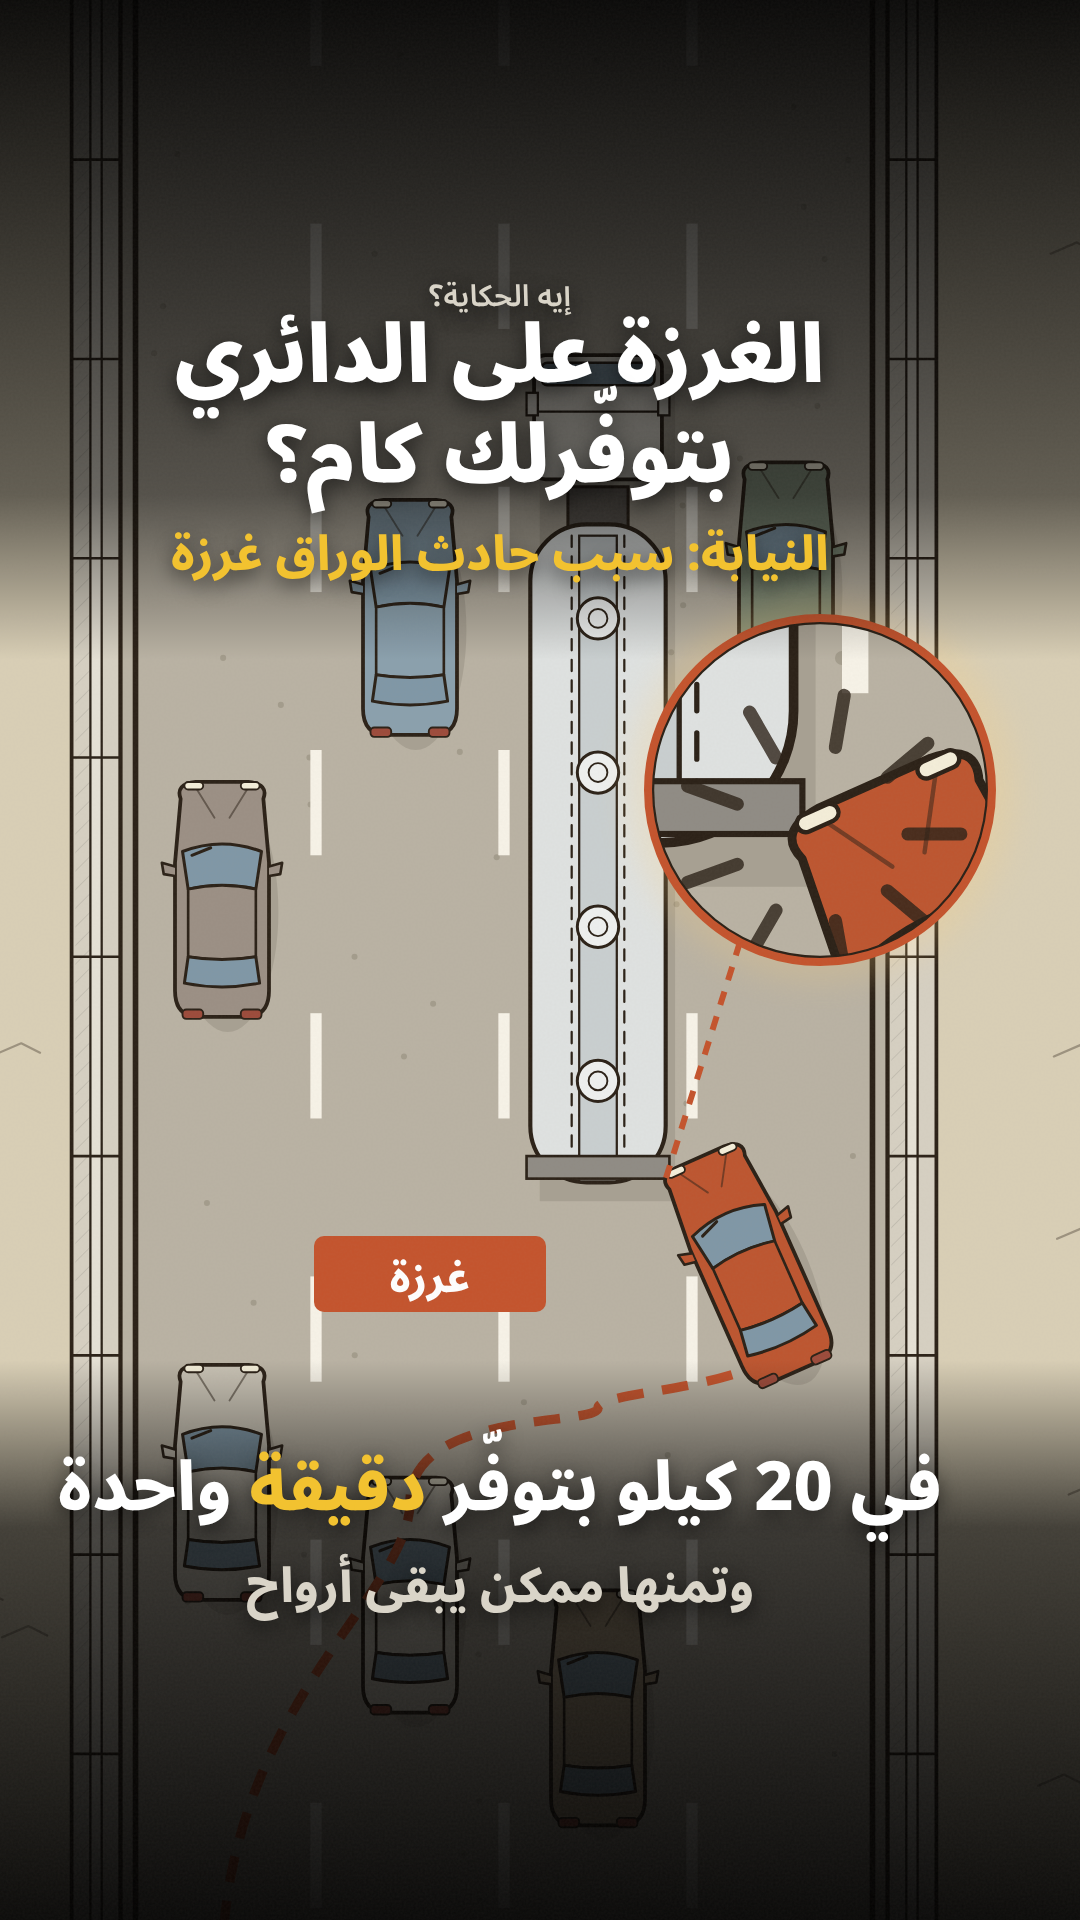
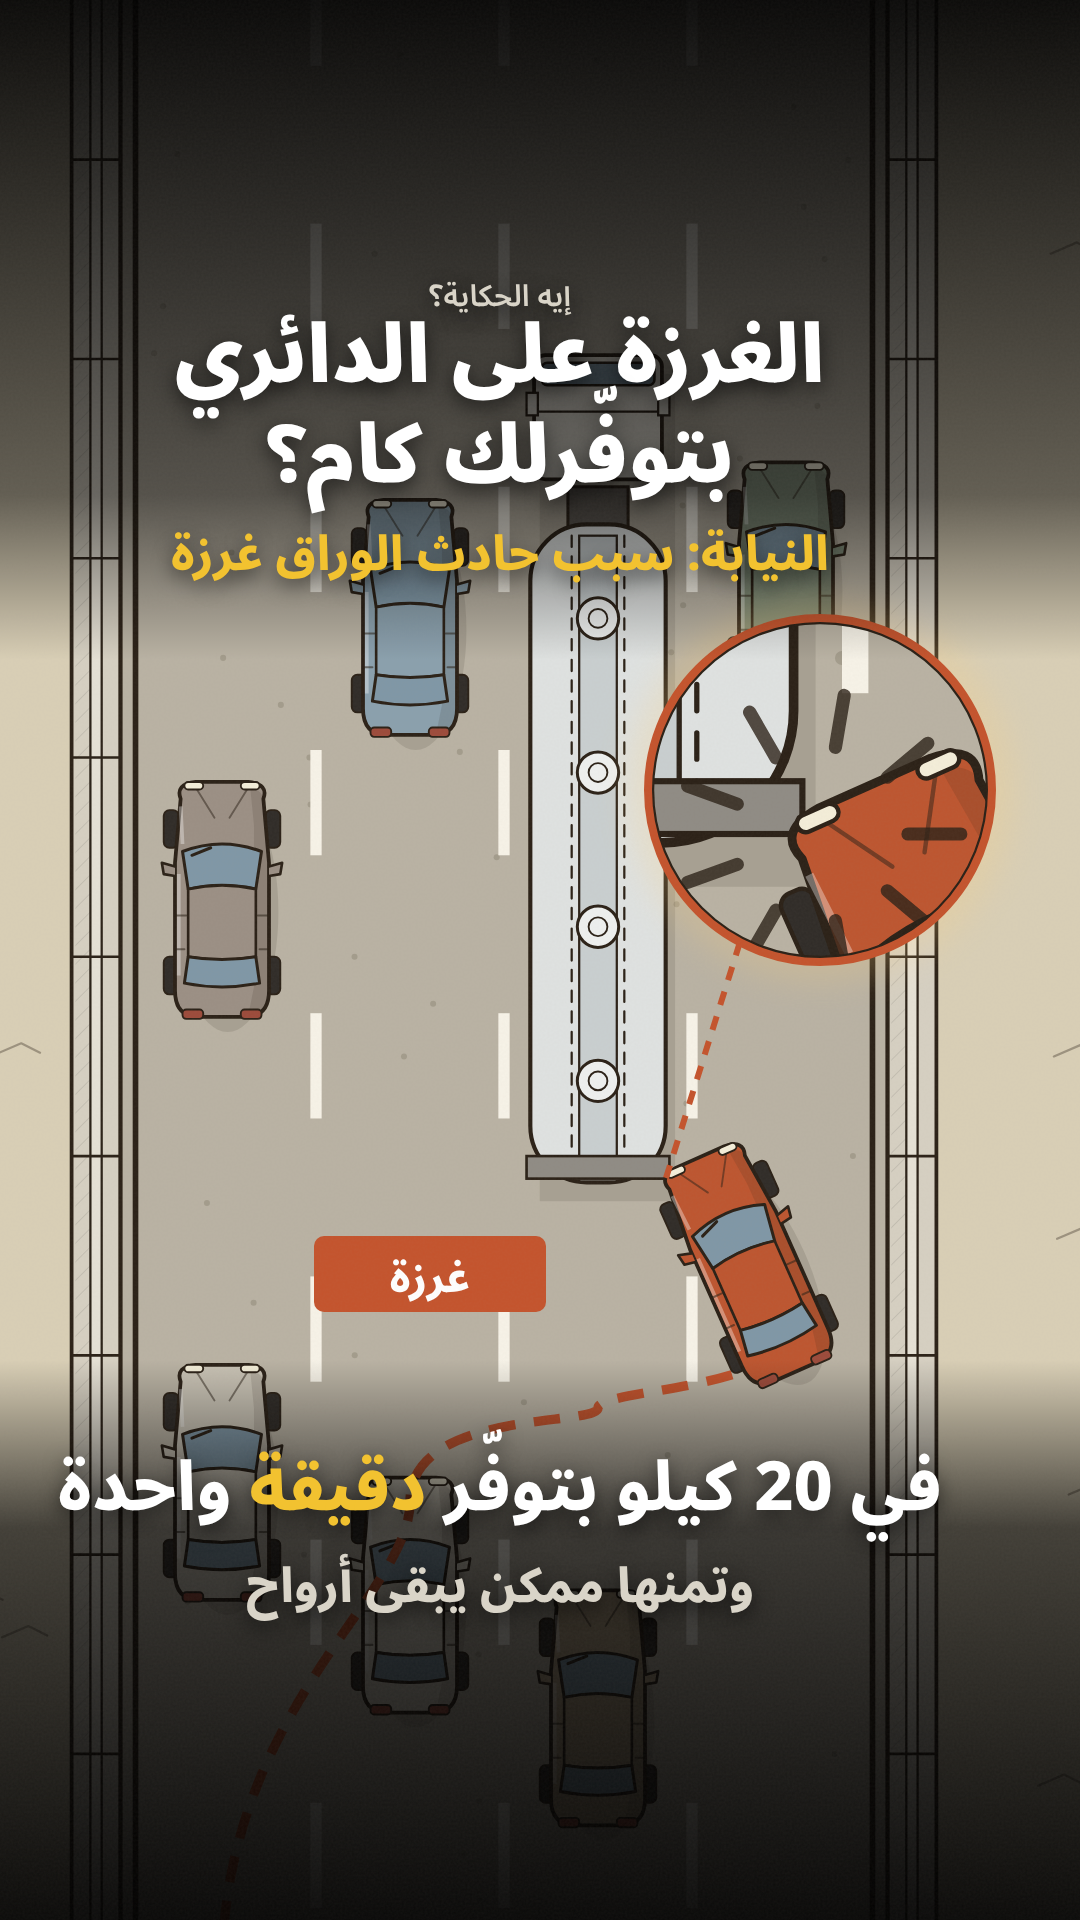
ghorza: hook rebuilt as a real weave through the gaps, each car reacts (brakes, swerves, startle); fuller car bodies
Claude-Session: https://claude.ai/code/session_016TN7FKGoWbsRS3eBNZ1crf

diff --git a/videos/ghorza/sketch/scenes.js b/videos/ghorza/sketch/scenes.js
@@ -390,15 +390,28 @@ shot([26, 3], still(OV[0], OV[1], OV[2]), function (u, d, t) {
 
 // ── opening card, bumper and summary art ──
 window.SCENE = window.SCENE || {};
+// The hook: one choreographed weave, every move into a real gap. Each car he cuts in front of reacts: it brakes (lights),
+// drops back and twitches away (left or right), with a startle mark — never an overlap.
+var HK = { A: [1, 380], B: [2, 175], C: [1, -125], D: [3, 60], E: [0, 280], F: [3, 330], G: [0, -60], H: [0, 470] };
+var HW = [[0, 350, 640], [1.4, 350, 362], [2.6, 250, 262], [3.4, 250, 62], [4.3, 350, -40], [5.2, 450, -160], [7.4, 450, -420]];
+var HR = { A: [1.5, -1, 72], B: [3.75, 1, 56], D: [4.55, 1, 60] };   // reaction start, swerve side, how far it drops back
+function hookWeaver(t) { var p = kf(HW, t), q = kf(HW, t + .05); return [p[0], p[1], Math.atan2(q[0] - p[0], -(q[1] - p[1]) + 9) * 57.3]; }
+function react(t, r) {   // → {dx, dy, ang, brake, jolt}
+  if (!r || t < r[0]) return { dx: 0, dy: 0, ang: 0, brake: false, jolt: 0 };
+  var u = t - r[0], out = ease(u / .35) * (1 - ease((u - 1.1) / 1.3)), back = ease(u / 1.2);
+  return { dx: r[1] * 20 * out, dy: r[2] * back, ang: r[1] * 9 * out * (u < .5 ? 1 : 1 - ease((u - .5) / .8)), brake: u < 2.4, jolt: u < .9 ? 1 - u / .9 : 0 };
+}
+function startle(x, y, k) { if (k <= 0) return ""; var s = ""; [-40, -14, 14, 40].forEach(function (a) { var r = a * Math.PI / 180; s += '<path d="M' + f(x + Math.sin(r) * 36) + ' ' + f(y - Math.cos(r) * 36) + ' L' + f(x + Math.sin(r) * (52 + 10 * (1 - k))) + ' ' + f(y - Math.cos(r) * (52 + 10 * (1 - k))) + '" stroke="' + ORANGE + '" stroke-width="4" stroke-linecap="round" opacity="' + f(k) + '"/>'; }); return s + G("", T("!", x, y - 64, 30, ORANGE, 900), k); }
 SCENE.intro = function (svg, t, li) {
-  // line 0: the weave on the road (a stopwatch: a few seconds). line 1: only his car ringed. line 2: every car round him ringed
-  var s = '<g transform="translate(64 250) scale(.75)">' + Z.road({ scroll: t * SPEED, y0: 0, y1: 520 }) + '<clipPath id="ic"><rect x="-90" y="0" width="720" height="520"/></clipPath><g clip-path="url(#ic)">';
-  var L = [[0, 130, 0], [2, 80, 2], [1, 330, 1], [3, 260, 5], [2, 470, 4]];
-  L.forEach(function (c, i) { s += Z.carTop(LANE(c[0]), c[1] + 5 * Math.sin(t + i), CC[c[2]], 0, { ring: li >= 2 ? ease((t - LN[2].start - i * .12) / .3) : 0 }); });
-  var p = (t * .35) % 1, wx = 250 + 100 * Math.sin(p * Math.PI * 2), wy = 420 - 200 * p;
-  s += Z.carTop(wx, wy, ORANGE, 22 * Math.cos(p * Math.PI * 2), { ring: li === 1 ? ease((t - LN[1].start) / .3) : 0 });
+  // line 0: the weave, a stopwatch «a few seconds». line 1: only his car ringed. line 2: every car he endangered ringed
+  var s = '<clipPath id="ic"><rect x="-30" y="0" width="668" height="660"/></clipPath><g clip-path="url(#ic)"><g transform="translate(4 150)">' + Z.road({ scroll: t * SPEED, y0: -200, y1: 560 });
+  Object.keys(HK).forEach(function (k, i) {
+    var c = HK[k], r = react(t, HR[k]), x = LANE(c[0]) + r.dx, y = c[1] + r.dy + 3 * Math.sin(t * .9 + i);
+    s += Z.carTop(x, y, CC[i % 6], r.ang, { brake: r.brake, ring: li >= 2 ? ease((t - LN[2].start - i * .1) / .3) : 0 }) + startle(x, y - 40, r.jolt);
+  });
+  var w = hookWeaver(t); s += Z.carTop(w[0], w[1], ORANGE, w[2], { blink: Math.abs(w[2]) > 4 ? (w[2] > 0 ? 1 : -1) : 0, ring: li === 1 ? ease((t - LN[1].start) / .3) : 0 });
   s += '</g></g>';
-  if (li === 0) s += G("", Z.watch(520, 160, 60, (t * .6) % 1) + T("كام ثانية", 520, 260, 26, ORANGE, 800), ease((t - .8) / .3));
+  if (li === 0) s += G("", Z.watch(562, 64, 38, (t * .6) % 1) + tag("كام ثانية", 556, 140, 1, 18, ORANGE), ease((t - .8) / .3));
   return s;
 };
 SCENE.bumper = function (u, t) {

diff --git a/videos/ghorza/sketch/shots.js b/videos/ghorza/sketch/shots.js
@@ -224,15 +224,28 @@ shot([26, 3], still(OV[0], OV[1], OV[2]), function (u, d, t) {
 
 // ── opening card, bumper and summary art ──
 window.SCENE = window.SCENE || {};
+// The hook: one choreographed weave, every move into a real gap. Each car he cuts in front of reacts: it brakes (lights),
+// drops back and twitches away (left or right), with a startle mark — never an overlap.
+var HK = { A: [1, 380], B: [2, 175], C: [1, -125], D: [3, 60], E: [0, 280], F: [3, 330], G: [0, -60], H: [0, 470] };
+var HW = [[0, 350, 640], [1.4, 350, 362], [2.6, 250, 262], [3.4, 250, 62], [4.3, 350, -40], [5.2, 450, -160], [7.4, 450, -420]];
+var HR = { A: [1.5, -1, 72], B: [3.75, 1, 56], D: [4.55, 1, 60] };   // reaction start, swerve side, how far it drops back
+function hookWeaver(t) { var p = kf(HW, t), q = kf(HW, t + .05); return [p[0], p[1], Math.atan2(q[0] - p[0], -(q[1] - p[1]) + 9) * 57.3]; }
+function react(t, r) {   // → {dx, dy, ang, brake, jolt}
+  if (!r || t < r[0]) return { dx: 0, dy: 0, ang: 0, brake: false, jolt: 0 };
+  var u = t - r[0], out = ease(u / .35) * (1 - ease((u - 1.1) / 1.3)), back = ease(u / 1.2);
+  return { dx: r[1] * 20 * out, dy: r[2] * back, ang: r[1] * 9 * out * (u < .5 ? 1 : 1 - ease((u - .5) / .8)), brake: u < 2.4, jolt: u < .9 ? 1 - u / .9 : 0 };
+}
+function startle(x, y, k) { if (k <= 0) return ""; var s = ""; [-40, -14, 14, 40].forEach(function (a) { var r = a * Math.PI / 180; s += '<path d="M' + f(x + Math.sin(r) * 36) + ' ' + f(y - Math.cos(r) * 36) + ' L' + f(x + Math.sin(r) * (52 + 10 * (1 - k))) + ' ' + f(y - Math.cos(r) * (52 + 10 * (1 - k))) + '" stroke="' + ORANGE + '" stroke-width="4" stroke-linecap="round" opacity="' + f(k) + '"/>'; }); return s + G("", T("!", x, y - 64, 30, ORANGE, 900), k); }
 SCENE.intro = function (svg, t, li) {
-  // line 0: the weave on the road (a stopwatch: a few seconds). line 1: only his car ringed. line 2: every car round him ringed
-  var s = '<g transform="translate(64 250) scale(.75)">' + Z.road({ scroll: t * SPEED, y0: 0, y1: 520 }) + '<clipPath id="ic"><rect x="-90" y="0" width="720" height="520"/></clipPath><g clip-path="url(#ic)">';
-  var L = [[0, 130, 0], [2, 80, 2], [1, 330, 1], [3, 260, 5], [2, 470, 4]];
-  L.forEach(function (c, i) { s += Z.carTop(LANE(c[0]), c[1] + 5 * Math.sin(t + i), CC[c[2]], 0, { ring: li >= 2 ? ease((t - LN[2].start - i * .12) / .3) : 0 }); });
-  var p = (t * .35) % 1, wx = 250 + 100 * Math.sin(p * Math.PI * 2), wy = 420 - 200 * p;
-  s += Z.carTop(wx, wy, ORANGE, 22 * Math.cos(p * Math.PI * 2), { ring: li === 1 ? ease((t - LN[1].start) / .3) : 0 });
+  // line 0: the weave, a stopwatch «a few seconds». line 1: only his car ringed. line 2: every car he endangered ringed
+  var s = '<clipPath id="ic"><rect x="-30" y="0" width="668" height="660"/></clipPath><g clip-path="url(#ic)"><g transform="translate(4 150)">' + Z.road({ scroll: t * SPEED, y0: -200, y1: 560 });
+  Object.keys(HK).forEach(function (k, i) {
+    var c = HK[k], r = react(t, HR[k]), x = LANE(c[0]) + r.dx, y = c[1] + r.dy + 3 * Math.sin(t * .9 + i);
+    s += Z.carTop(x, y, CC[i % 6], r.ang, { brake: r.brake, ring: li >= 2 ? ease((t - LN[2].start - i * .1) / .3) : 0 }) + startle(x, y - 40, r.jolt);
+  });
+  var w = hookWeaver(t); s += Z.carTop(w[0], w[1], ORANGE, w[2], { blink: Math.abs(w[2]) > 4 ? (w[2] > 0 ? 1 : -1) : 0, ring: li === 1 ? ease((t - LN[1].start) / .3) : 0 });
   s += '</g></g>';
-  if (li === 0) s += G("", Z.watch(520, 160, 60, (t * .6) % 1) + T("كام ثانية", 520, 260, 26, ORANGE, 800), ease((t - .8) / .3));
+  if (li === 0) s += G("", Z.watch(562, 64, 38, (t * .6) % 1) + tag("كام ثانية", 556, 140, 1, 18, ORANGE), ease((t - .8) / .3));
   return s;
 };
 SCENE.bumper = function (u, t) {

diff --git a/videos/ghorza/sketch/draw.js b/videos/ghorza/sketch/draw.js
@@ -46,7 +46,11 @@ function jerseyTop(xa, xb, y0, y1, sc) {
 function carTop(x, y, col, ang, o) {
   o = o || {}; var s = "";
   s += '<ellipse cx="3" cy="6" rx="27" ry="64" fill="' + INK + '" opacity=".12"/>';                    // shadow
+  [[-1, -38], [1, -38], [-1, 40], [1, 40]].forEach(function (w) { s += '<rect x="' + (w[0] * 27 - 4) + '" y="' + (w[1] - 10) + '" width="8" height="20" rx="3" fill="' + TYRE + '" stroke="' + INK + '" stroke-width="1"/>'; });   // tyres peeking out
   s += P("M-22 -54 Q-25 -62 -14 -63 L14 -63 Q25 -62 22 -54 L25 -20 L25 48 Q25 62 12 62 L-12 62 Q-25 62 -25 48 L-25 -20 Z", col, 2);   // body
+  s += '<path d="M15 -60 Q23 -58 22 -52 L25 -20 L25 48 Q25 60 14 61 L17 46 L17 -40 Z" fill="' + INK + '" opacity=".13"/>';         // the shaded flank: volume
+  s += '<path d="M-22 -50 L-21 -30 M-23 -14 L-23 40" stroke="#fff" stroke-width="2" opacity=".35" fill="none"/>';                 // highlight on the lit side
+  s += P("M-25 8 H-19 M25 8 H19 M-25 26 H-20 M25 26 H20", "none", 1.1, ' opacity=".55"') + P("M-25 -8 L-25 46 M25 -8 L25 46", "none", 1.2, ' opacity=".2"');   // door seams
   s += P("M-21 -26 Q0 -34 21 -26 L18 -6 Q0 -10 -18 -6 Z", GLASS, 1.6) + P("M-16 -24 L-6 -28", "none", 1.6, ' stroke="' + GLASSL + '"');   // windscreen
   s += P("M-18 -6 Q0 -10 18 -6 L18 30 Q0 33 -18 30 Z", o.roof || col, 1.4);                            // roof
   s += P("M-18 30 Q0 33 18 30 L20 44 Q0 48 -20 44 Z", GLASS, 1.6);                                     // rear window

diff --git a/videos/ghorza/cues.js b/videos/ghorza/cues.js
@@ -47,8 +47,10 @@ paper(L(ASK) + 0.1); a(L(ASK) + 0.3, 'pop', 0.4);                               
 const C = (i, j) => { const l = T[i], f = (window.CHUNKS_F || {})[i]; return l.start + (l.end - l.start) * (f ? f[j] : 0); };
 eval(fs.readFileSync(__dirname + '/sketch/scenes.js', 'utf8').split('\n')[0].replace('window.CHUNKS', 'window.CHUNKS_F'));
 // hook: the traffic under the hook card, a whoosh as he weaves, a tick on the stopwatch
-a(L(0) + 0.2, 'wind', 0.08, L(PROMISE) - 0.2); a(L(0) + 0.9, 'whoosh', 0.22); for (let k = 0; k < 4; k++) a(L(0) + 0.8 + k * 0.4, 'tick', 0.12);
-a(L(1) + 0.3, 'whoosh', 0.18); a(L(2) + 0.2, 'pop', 0.25);
+a(L(0) + 0.2, 'wind', 0.08, L(PROMISE) - 0.2); for (let k = 0; k < 4; k++) a(L(0) + 0.8 + k * 0.4, 'tick', 0.1);
+[1.5, 3.4, 4.35].forEach(x => a(x, 'whoosh', 0.26));                    // each cut across a lane (the hook choreography in shots.js)
+[1.55, 3.8, 4.6].forEach(x => { a(x, 'pop', 0.3); a(x + 0.05, 'thud', 0.12); });   // each car he cuts in front of jolts and brakes
+a(L(2) + 0.2, 'pop', 0.25);
 // 4–6: the Ring Road, the weave, the hit
 a(L(4), 'wind', 0.08, L(7) - L(4)); a(L(4), 'idle', 0.05, L(7) - L(4));
 a(C(4, 2) + 0.4, 'whoosh', 0.25); a(L(5) + 0.4, 'rev', 0.18); ding(L(5) + 0.7); a(C(5, 1) + 0.3, 'whoosh', 0.25); a(C(5, 1) + 1.1, 'whoosh', 0.22);
